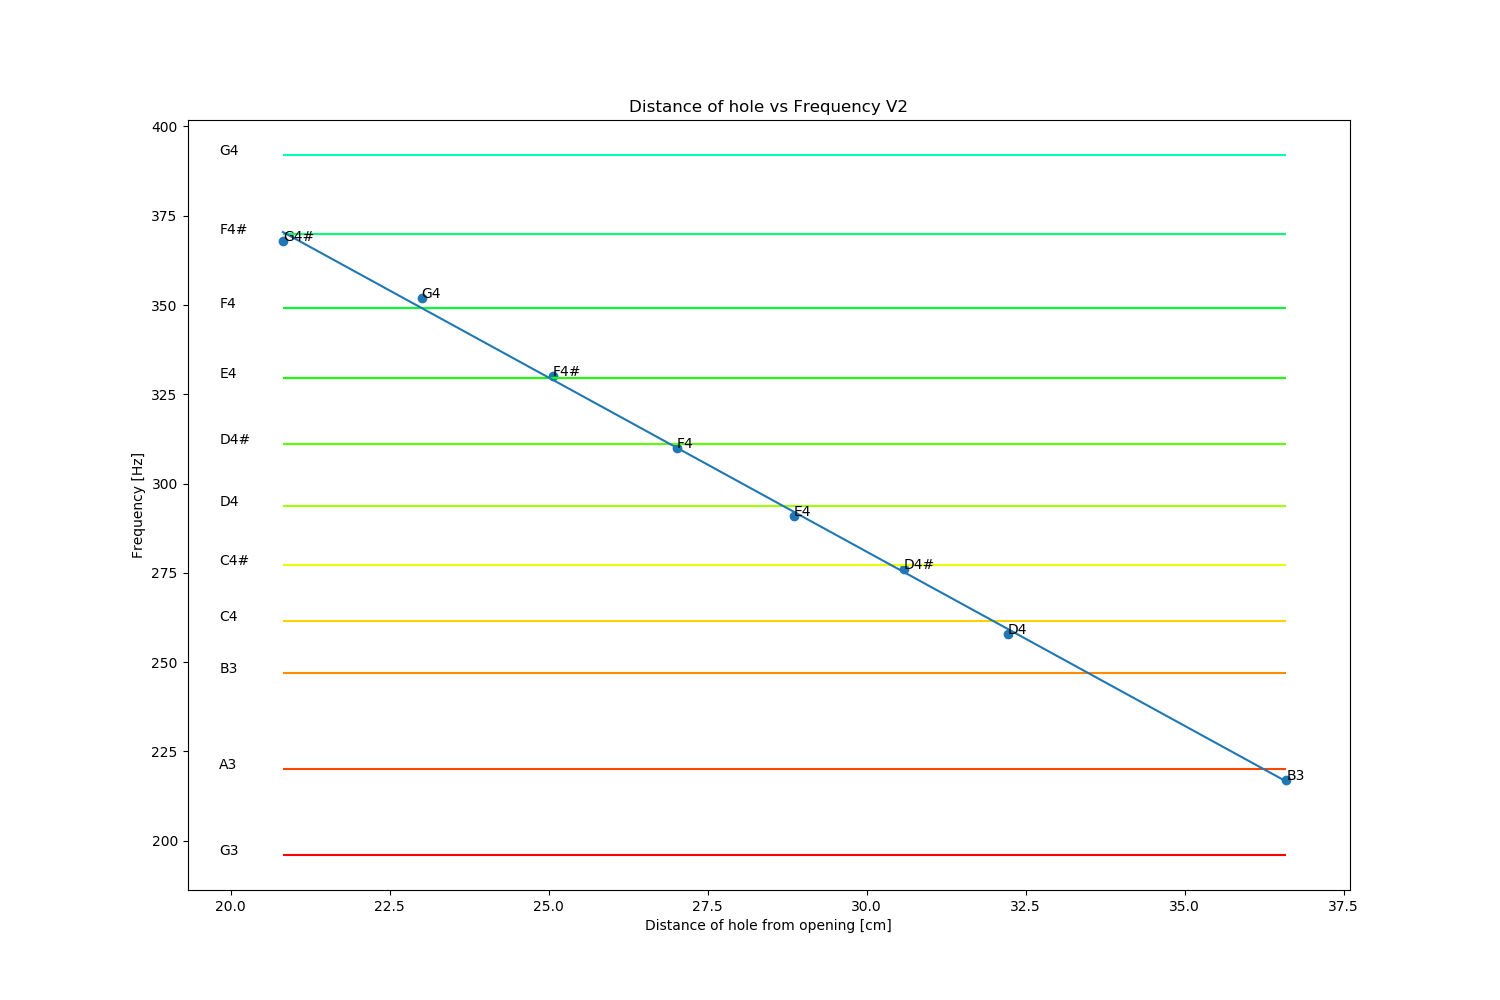
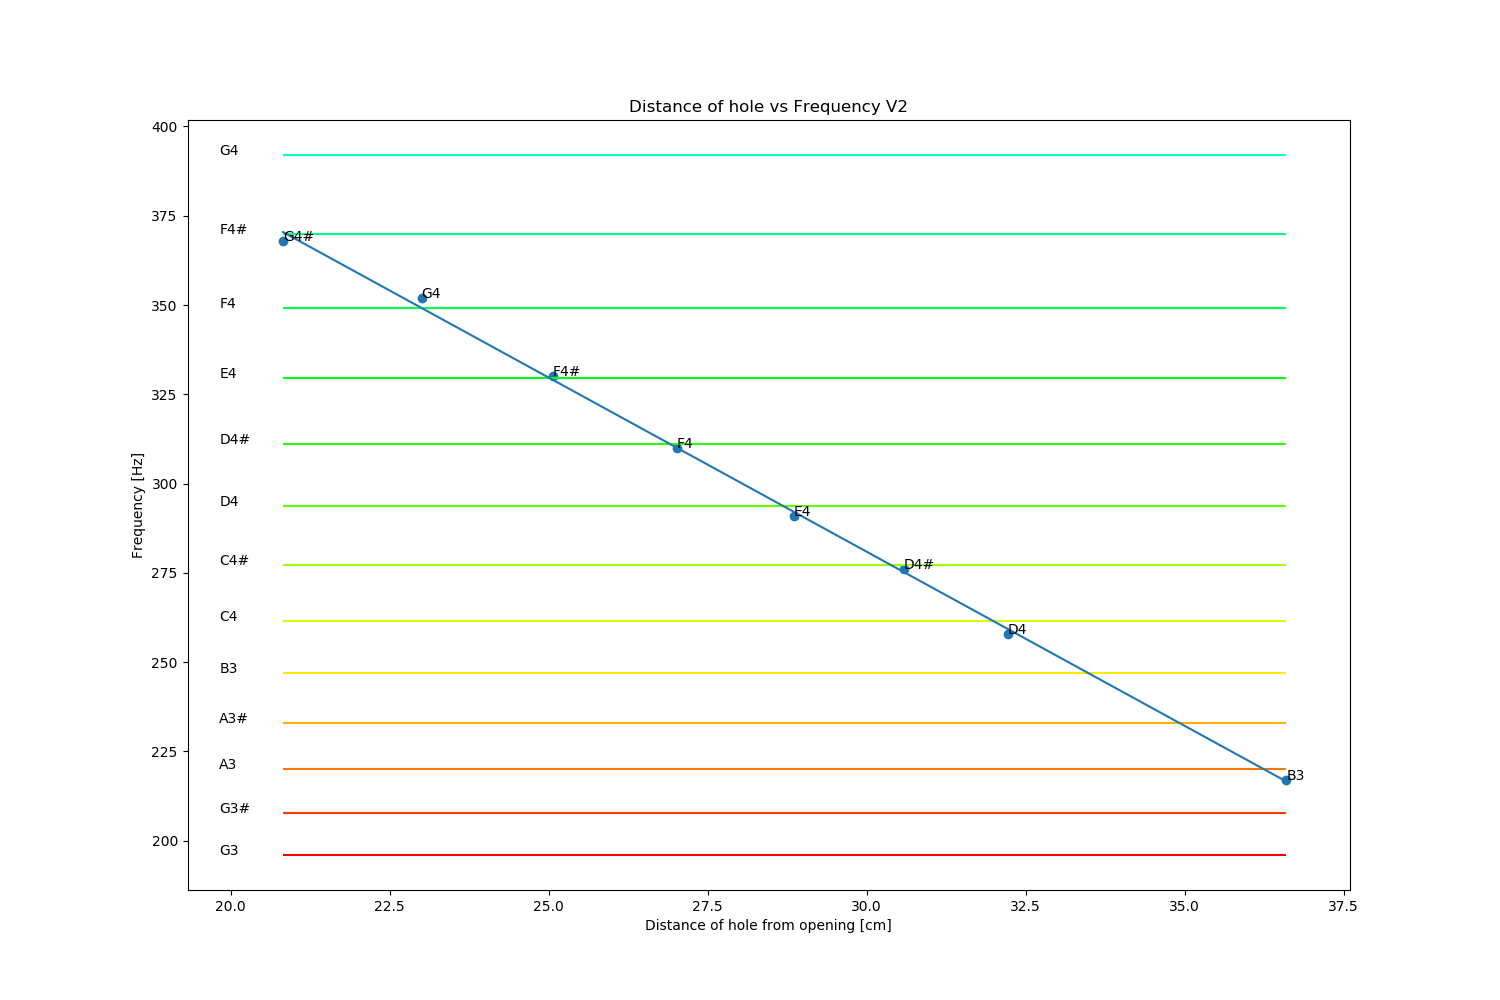
Added final files and graphs

diff --git a/446.py b/446.py
@@ -48,7 +48,9 @@ def do_fft(data):
 
 note_mappings = {
     "G3": 196.00,
+    "G3#": 207.65,
     "A3": 220.00,
+    "A3#": 233.08,
     "B3": 246.94,
     "C4": 261.63,
     "C4#": 277.18,
@@ -58,11 +60,11 @@ note_mappings = {
     "F4": 349.23,
     "F4#": 369.99,
     "G4": 392.00,
-    "G4#": 415.30,
-    "A4": 440.00,
-    "A4#": 466.16,
-    "B4": 493.88,
-    "C5": 523.25,
+    # "G4#": 415.30,
+    # "A4": 440.00,
+    # "A4#": 466.16,
+    # "B4": 493.88,
+    # "C5": 523.25,
 
    #  "D5": 587.33,
    #  "E5": 659.25,
@@ -98,16 +100,16 @@ filename_note_mapping = {
 }
 
 filename_hole_loc_mapping = {
-    "V1": {
-        "trumpet_-1": 15.25,
-        "trumpet_2": 20.75,
-        "trumpet_3": 23.5,
-        "trumpet_4": 26.25,
-        "trumpet_5": 29.0,
-        "trumpet_6": 31.75,
-        "trumpet_7": 34.5,
-        "trumpet_all_closed": 40.5,
-    },
+    # "V1": {
+    #     "trumpet_-1": 15.25,
+    #     "trumpet_2": 20.75,
+    #     "trumpet_3": 23.5,
+    #     "trumpet_4": 26.25,
+    #     "trumpet_5": 29.0,
+    #     "trumpet_6": 31.75,
+    #     "trumpet_7": 34.5,
+    #     "trumpet_all_closed": 40.5,
+    # },
 
     "V2": {
         "V2/Hole_1_G4#": 20.82,
@@ -122,41 +124,41 @@ filename_hole_loc_mapping = {
         "V2/Hole_8_B3_v2" : 36.60,
     },
 
-    "V3": {
-        "V3/open":      16.2,
-        "V3/hole_1":    18.6,
-        "V3/hole_2":    20.9,
-        "V3/hole_3":    23.0,
-        "V3/hole_4":    25.0,
-        "V3/hole_5":    26.9,
-        "V3/hole_6":    28.7,
-        "V3/hole_7":    33.5,
-        "V3/hole_8":    40.5,
-    },
+    # "V3": {
+    #     "V3/open":      16.2,
+    #     "V3/hole_1":    18.6,
+    #     "V3/hole_2":    20.9,
+    #     "V3/hole_3":    23.0,
+    #     "V3/hole_4":    25.0,
+    #     "V3/hole_5":    26.9,
+    #     "V3/hole_6":    28.7,
+    #     "V3/hole_7":    33.5,
+    #     "V3/hole_8":    40.5,
+    # },
 
-    "V4": {
-        "V4/open":      16.2,
-        "V4/hole_1":    18.6,
-        "V4/hole_2":    20.9,
-        "V4/hole_3":    23.0,
-        "V4/hole_4":    25.0,
-        "V4/hole_5":    26.9,
-        "V4/hole_6":    28.7,
-        "V4/hole_7":    33.5,
-        "V4/hole_8":    39.5,
-    },
+    # "V4": {
+    #     "V4/open":      16.2,
+    #     "V4/hole_1":    18.6,
+    #     "V4/hole_2":    20.9,
+    #     "V4/hole_3":    23.0,
+    #     "V4/hole_4":    25.0,
+    #     "V4/hole_5":    26.9,
+    #     "V4/hole_6":    28.7,
+    #     "V4/hole_7":    33.5,
+    #     "V4/hole_8":    39.5,
+    # },
 
-    "V5": {
-        "V5/open":      16.2,
-        "V5/hole_1":    18.6,
-        "V5/hole_2":    20.9,
-        "V5/hole_3":    23.0,
-        "V5/hole_4":    25.0,
-        "V5/hole_5":    26.9,
-        "V5/hole_6":    28.7,
-        "V5/hole_7":    33.5,
-        "V5/hole_8":    40.8,
-    }
+    # "V5": {
+    #     "V5/open":      16.2,
+    #     "V5/hole_1":    18.6,
+    #     "V5/hole_2":    20.9,
+    #     "V5/hole_3":    23.0,
+    #     "V5/hole_4":    25.0,
+    #     "V5/hole_5":    26.9,
+    #     "V5/hole_6":    28.7,
+    #     "V5/hole_7":    33.5,
+    #     "V5/hole_8":    40.8,
+    # }
 }
 
 filenames = [
@@ -223,9 +225,9 @@ for version, mapping in filename_hole_loc_mapping.items():
             dists.append(dist)
             freqs.append(i)
             # plt.scatter(dist, i, label=filename)
-            plt.annotate(filename, (dist, i))
+            # plt.annotate(filename, (dist, i))
             # plt.scatter(dist, i)
-            # plt.annotate(filename_note_mapping[filename.split('/')[1]], (dist, i))
+            plt.annotate(filename_note_mapping[filename.split('/')[1]], (dist, i))
             closest_note = ""
             closest_diff = 10000
             for note, freq in note_mappings.items():
@@ -268,10 +270,10 @@ for note, freq in note_mappings.items():
     i += 1
 
 
-plt.legend()
+# plt.legend()
 plt.xlabel('Distance of hole from opening [cm]')
 plt.ylabel('Frequency [Hz]')
-plt.title("Distance of hole vs Frequency")
+plt.title("Distance of hole vs Frequency V2")
 plt.xlim(min(dists)-1.5, max(dists)+1)
 # plt.xlim(0, max_freq_show)
 # plt.ylim(0, 5E7)

diff --git a/synthesis.py b/synthesis.py
@@ -25,17 +25,11 @@ note_file_mapping = {
     "D#":   "V4/Hole_4",
     "D":    "V4/Hole_5",
     "B":    "V4/Hole_7",
-}
 
-note_midi_mapping = {
-    "G#":   68,   # G4#
-    "G":    67,   # G4
-    "F#":   66,   # F4#
-    "F":    65,   # F4
-    "E":    64,   # E4
-    "D#":   63,   # D4#
-    "D":    62,   # D4
-    "B":    59,   # B3
+    "C":    "V5/Hole_7",
+    "C#":   "V4/Hole_6",
+    "A":    "V2/Hole_8_B3_v2",
+    "A#":   "V3/Hole_8",
 }
 
 def normalize(note_data, t_norm=1, rms_norm=10000):
@@ -63,7 +57,7 @@ def normalize(note_data, t_norm=1, rms_norm=10000):
 
 # normalize all notes
 normalized_notes = {}
-for note in set(notes):
+for note in set(note_file_mapping.keys()):
     fs, note_data = wavfile.read(note_file_mapping[note] + ".wav")
     print(f"Note: {note} \tfs: {fs}\tlen: {len(note_data)}\tdur: {len(note_data)/fs}")
 
@@ -87,9 +81,16 @@ core_note_mapping = {
     7:"G",
     8:"G#",
     11:"B",
+
+    0: "C",
+    1: "C#",
+    9: "A",
+    10: "A#",
 }
 
-mid = mido.MidiFile("heart_will_go_on_filtered.mid")
+midi_name = "imperial"
+
+mid = mido.MidiFile(f"midi/{midi_name}.mid")
 song = np.array([0])
 current_time = 0
 last_msg = None
@@ -121,5 +122,5 @@ for msg in mid.play():
     last_msg = msg
 
 song = song.astype(np.int16)
-wavfile.write("generated/titanic.wav", sampling_rate, song)
+wavfile.write(f"generated/{midi_name}.wav", sampling_rate, song)
 
